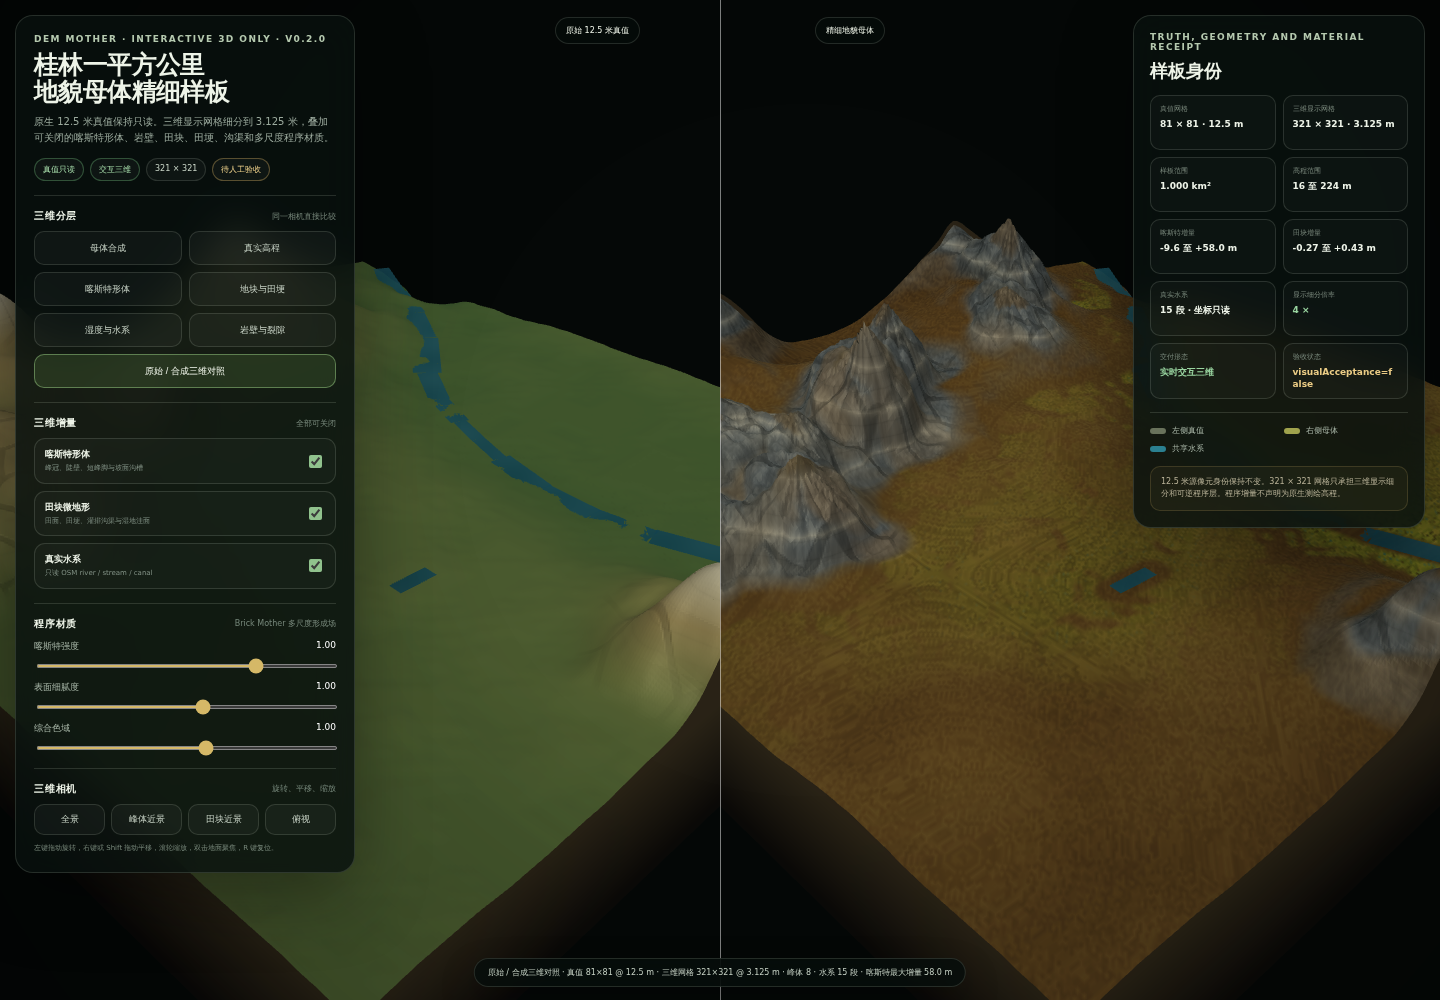
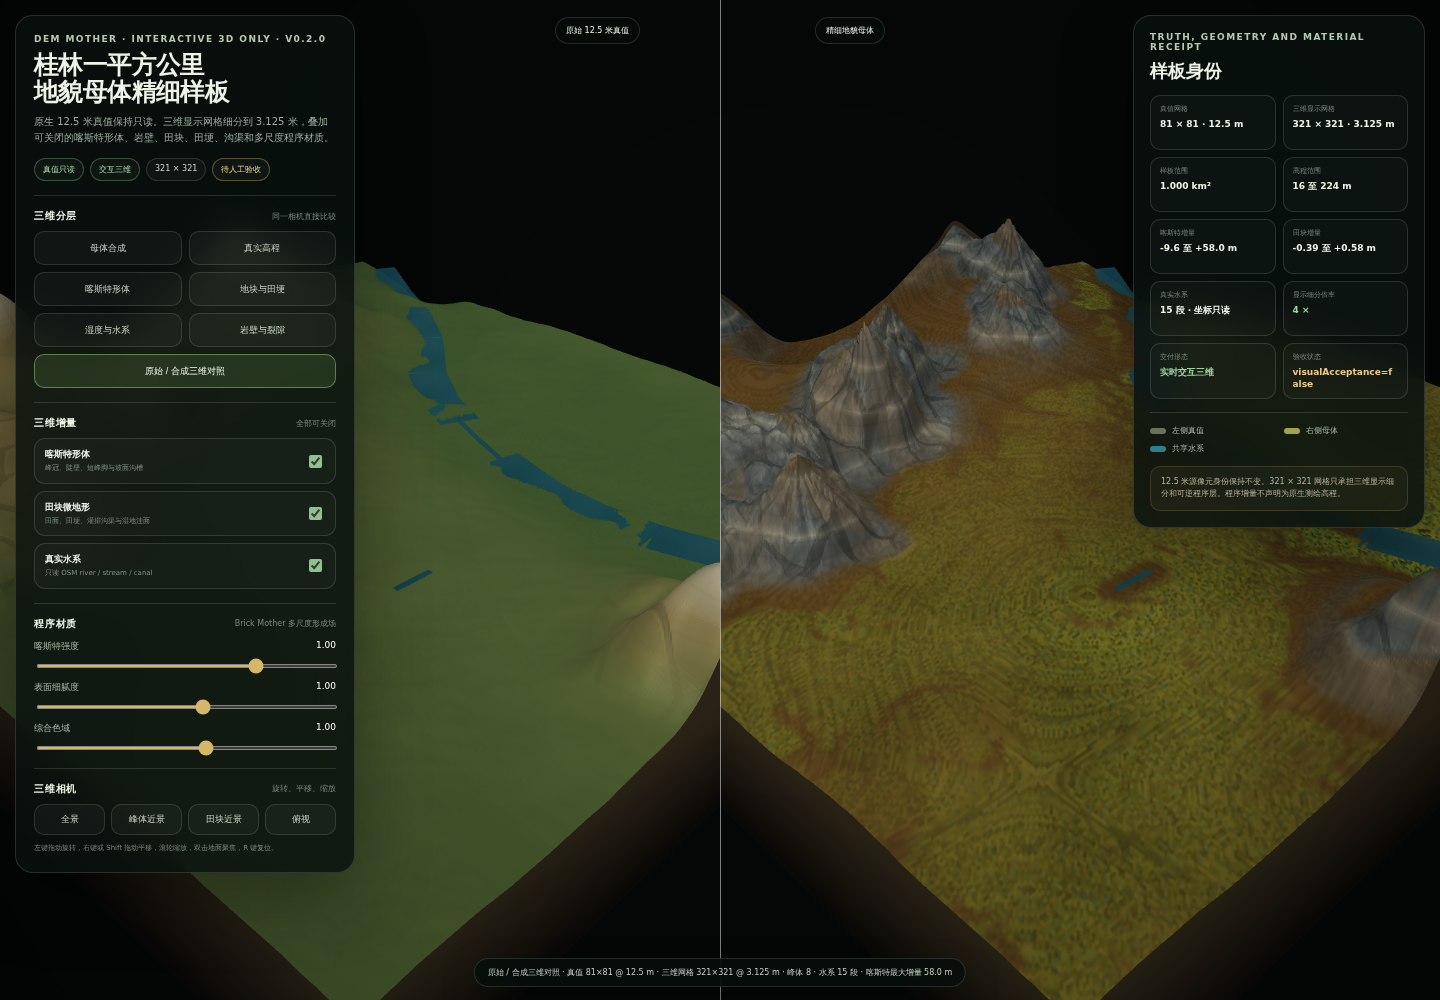
deploy: 5f70dca12b1d9fda6b72410553b53f8184c05d42

diff --git a/guilin-mother-sample-v002/app.js b/guilin-mother-sample-v002/app.js
@@ -674,6 +674,138 @@ setView=function(name){
   }
   state.dirty=true;
 };
+/* v0.2.3 coherent parcel-scale geometry and short-segment water cleanup. */
+parcelGrammar=function(easting,northing){
+  const warpX=fbm2(easting*.00155,northing*.00155,SEEDS.field+31,4)*34;
+  const warpZ=fbm2(easting*.00155+7.4,northing*.00155-5.1,SEEDS.field+73,4)*34;
+  const angle=.27+fbm2(easting*.00052,northing*.00052,SEEDS.field+91,3)*.19;
+  const ca=Math.cos(angle),sa=Math.sin(angle);
+  const rx=(easting+warpX)*ca+(northing+warpZ)*sa;
+  const rz=-(easting+warpX)*sa+(northing+warpZ)*ca;
+  const cellX=120,cellZ=92,gx=Math.floor(rx/cellX),gz=Math.floor(rz/cellZ);
+  let first=Infinity,second=Infinity,nearestX=gx,nearestZ=gz;
+  for(let oz=-1;oz<=1;oz++)for(let ox=-1;ox<=1;ox++){
+    const cx=gx+ox,cz=gz+oz;
+    const px=(cx+.12+hash2(cx,cz,SEEDS.field+149)*.76)*cellX;
+    const pz=(cz+.12+hash2(cx,cz,SEEDS.field+193)*.76)*cellZ;
+    const distance=Math.hypot(rx-px,rz-pz);
+    if(distance<first){second=first;first=distance;nearestX=cx;nearestZ=cz;}else if(distance<second)second=distance;
+  }
+  const boundary=1-smoothstep(1.8,13.0,second-first);
+  const fieldSeed=hash2(nearestX,nearestZ,SEEDS.field+277);
+  const lineA=Math.abs(Math.sin((rx+fieldSeed*141)*.039));
+  const lineB=Math.abs(Math.sin((rz-fieldSeed*103)*.051));
+  const rowA=1-smoothstep(.00,.28,lineA);
+  const rowB=1-smoothstep(.00,.23,lineB);
+  const channel=Math.max(rowA,rowB*.58);
+  return{boundary,fieldSeed,channel};
+};
+
+const deriveTerrainFieldsV22=deriveTerrainFields;
+deriveTerrainFields=function(dense,segments){
+  const fields=deriveTerrainFieldsV22(dense,segments);
+  const elevationRange=Math.max(1,state.maximum-state.minimum);
+  let fieldMinimum=Infinity,fieldMaximum=-Infinity,paddySum=0,bundSum=0,channelSum=0;
+  for(let row=0;row<RENDER_GRID;row++){
+    for(let column=0;column<RENDER_GRID;column++){
+      const index=row*RENDER_GRID+column;
+      const truth=dense[index];
+      const x=column*RENDER_SPACING-SIDE_M*.5,z=row*RENDER_SPACING-SIDE_M*.5;
+      const easting=CENTER_E+x,northing=CENTER_N-z;
+      const slopeDegrees=fields.slope[index]*62;
+      const elev=(truth-state.minimum)/elevationRange;
+      const lowland=1-smoothstep(.09,.64,elev);
+      const flat=1-smoothstep(3.0,15.8,slopeDegrees);
+      const waterDistance=nearestWaterDistance(x,z,segments);
+      const waterCore=1-smoothstep(7,27,waterDistance);
+      const patch=fbm2(easting*.00185,northing*.00185,SEEDS.field+401,4)*.5+.5;
+      const patchGate=.58+.42*smoothstep(.18,.80,patch);
+      const base=lowland*flat*(.46+.54*fields.wet[index])*patchGate*(1-waterCore*.95)*(1-fields.cliff[index]*.95)*(1-fields.talus[index]*.55);
+      const paddyValue=smoothstep(.065,.47,base);
+      const parcel=parcelGrammar(easting,northing);
+      const bundValue=paddyValue*Math.pow(parcel.boundary,.48);
+      const channelValue=paddyValue*parcel.channel*(1-parcel.boundary*.56);
+      const terraceStep=.25+parcel.fieldSeed*.15;
+      const terraceTarget=Math.round(truth/terraceStep)*terraceStep;
+      const flatten=clamp((terraceTarget-truth)*.45,-.15,.15);
+      const fieldValue=clamp(paddyValue*flatten+bundValue*(.42+parcel.fieldSeed*.22)-channelValue*(.27+parcel.fieldSeed*.16),-.43,.68);
+      fields.paddy[index]=paddyValue;
+      fields.bund[index]=bundValue;
+      fields.channel[index]=channelValue;
+      fields.fieldDelta[index]=fieldValue;
+      fields.unitSeed[index]=parcel.fieldSeed;
+      fields.flow[index]=clamp(fields.flow[index]+channelValue*.44,0,1);
+      fields.terrace[index]=paddyValue*flat;
+      fields.enhanced[index]=truth+fields.karstDelta[index]+fieldValue;
+      fieldMinimum=Math.min(fieldMinimum,fieldValue);fieldMaximum=Math.max(fieldMaximum,fieldValue);
+      paddySum+=paddyValue;bundSum+=bundValue;channelSum+=channelValue;
+    }
+  }
+  fields.enhancedNormals=buildNormalArray(fields.enhanced);
+  state.fieldRange=[fieldMinimum,fieldMaximum];
+  state.fieldStats={paddyFraction:paddySum/fields.paddy.length,bundMean:bundSum/fields.bund.length,channelMean:channelSum/fields.channel.length};
+  return fields;
+};
+
+buildWaterMesh=function(){
+  const gl=state.gl,vertices=[],indices=[];
+  const add=(x,y,z,c)=>{vertices.push(x,y,z,c);return vertices.length/4-1;};
+  for(const segment of state.segments){
+    const dx=segment.x1-segment.x0,dz=segment.z1-segment.z0,length=Math.hypot(dx,dz);
+    if(length<3.5)continue;
+    const nx=-dz/length,nz=dx/length;
+    const base=segment.classValue===0?5.0:(segment.classValue===1?1.9:1.1);
+    const requestedHalf=Math.max(base*.60,segment.sourceWidth*.50);
+    const shortSafe=length<58?Math.max(.65,length*.075):26;
+    const halfWidth=clamp(Math.min(requestedHalf,shortSafe,26),.65,26);
+    const y0=segment.y0-state.minimum+.36,y1=segment.y1-state.minimum+.36;
+    const a=add(segment.x0+nx*halfWidth,y0,segment.z0+nz*halfWidth,segment.classValue);
+    const b=add(segment.x0-nx*halfWidth,y0,segment.z0-nz*halfWidth,segment.classValue);
+    const c=add(segment.x1+nx*halfWidth,y1,segment.z1+nz*halfWidth,segment.classValue);
+    const d=add(segment.x1-nx*halfWidth,y1,segment.z1-nz*halfWidth,segment.classValue);
+    indices.push(a,b,c,c,b,d);
+  }
+  const vao=gl.createVertexArray(),vertexBuffer=gl.createBuffer(),indexBuffer=gl.createBuffer();
+  gl.bindVertexArray(vao);gl.bindBuffer(gl.ARRAY_BUFFER,vertexBuffer);gl.bufferData(gl.ARRAY_BUFFER,new Float32Array(vertices),gl.STATIC_DRAW);
+  gl.enableVertexAttribArray(0);gl.vertexAttribPointer(0,3,gl.FLOAT,false,16,0);
+  gl.enableVertexAttribArray(1);gl.vertexAttribPointer(1,1,gl.FLOAT,false,16,12);
+  gl.bindBuffer(gl.ELEMENT_ARRAY_BUFFER,indexBuffer);gl.bufferData(gl.ELEMENT_ARRAY_BUFFER,new Uint32Array(indices),gl.STATIC_DRAW);
+  gl.bindVertexArray(null);
+  state.water={vao,vertexBuffer,indexBuffer,indexCount:indices.length};
+};
+
+function bestCentralFieldPoint(){
+  let best={score:-Infinity,x:0,z:0};
+  for(let row=12;row<RENDER_GRID-12;row+=3){
+    for(let column=12;column<RENDER_GRID-12;column+=3){
+      const x=column*RENDER_SPACING-SIDE_M*.5,z=row*RENDER_SPACING-SIDE_M*.5;
+      if(Math.abs(x)>315||Math.abs(z)>315)continue;
+      const index=row*RENDER_GRID+column;
+      const waterDistance=nearestWaterDistance(x,z,state.segments);
+      const desiredWater=1-Math.min(1,Math.abs(waterDistance-90)/120);
+      const centerPenalty=Math.hypot(x,z)/700;
+      const score=state.fields.paddy[index]*1.45+state.fields.bund[index]*.26+desiredWater*.18-state.fields.channel[index]*.18-centerPenalty*.18;
+      if(score>best.score)best={score,x,z};
+    }
+  }
+  return[best.x,best.z];
+}
+
+setView=function(name){
+  const relief=state.maximum-state.minimum;
+  if(name==='top'){
+    state.camera.target=[0,relief*.18,0];state.camera.yaw=-.05;state.camera.pitch=1.485;state.camera.distance=1320;
+  }else if(name==='karst'){
+    const peak=highestPeak();const localHeight=denseTruthAtWorld(peak.x,peak.z)-state.minimum;
+    state.camera.target=[peak.x,localHeight+peak.amplitude*.46,peak.z];state.camera.yaw=-1.00;state.camera.pitch=.40;state.camera.distance=565;
+  }else if(name==='field'){
+    const c=bestCentralFieldPoint();const localHeight=denseTruthAtWorld(c[0],c[1])-state.minimum;
+    state.camera.target=[c[0],localHeight+7,c[1]];state.camera.yaw=-.72;state.camera.pitch=.64;state.camera.distance=600;
+  }else{
+    state.camera.target=[0,relief*.24,0];state.camera.yaw=-.78;state.camera.pitch=.55;state.camera.distance=1450;
+  }
+  state.dirty=true;
+};
 const MODE_NAMES=['母体合成','真实高程','喀斯特形体','地块与田埂','湿度与水系','岩壁与裂隙','原始 / 合成三维对照'];
 const LEGENDS={0:[['#9a9d47','田块'],['#88714a','泥土'],['#aaa797','石灰岩'],['#2b8090','水系']],1:[['#29482d','低地'],['#6f7042','坡地'],['#aaa99b','高地']],2:[['#17221c','低响应'],['#dc9f2d','喀斯特'],['#f3dc79','正增量'],['#397cb2','切削区']],3:[['#1d2518','禁入'],['#a6ad3d','田面'],['#6f421c','田埂'],['#238395','沟渠']],4:[['#36271a','偏干'],['#35685e','湿润'],['#1f91a0','高湿'],['#216896','真实水系']],5:[['#1d2b1d','覆盖面'],['#73746d','裸岩'],['#332219','裂隙'],['#c1ad72','层理']],6:[['#69725b','左侧真值'],['#a0a34d','右侧母体'],['#2b8090','共享水系'] ]};
 function updateLegend(){const root=$('legend');root.innerHTML='';for(const[color,label]of LEGENDS[state.mode])root.insertAdjacentHTML('beforeend',`<div><i style="background:${color}"></i>${label}</div>`);}
